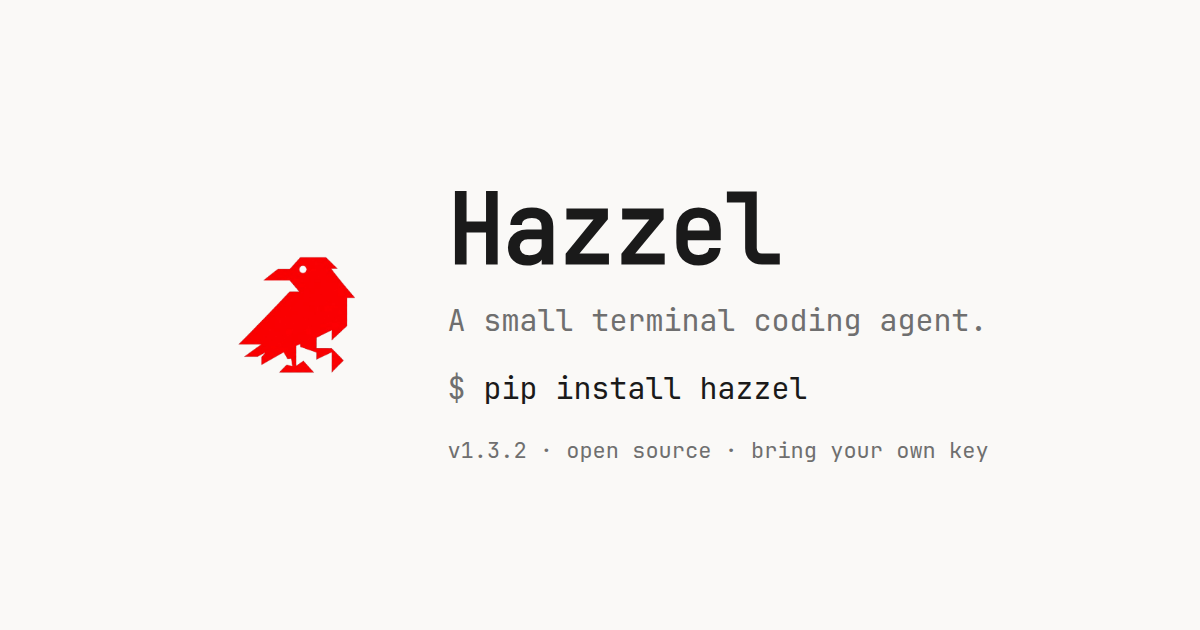
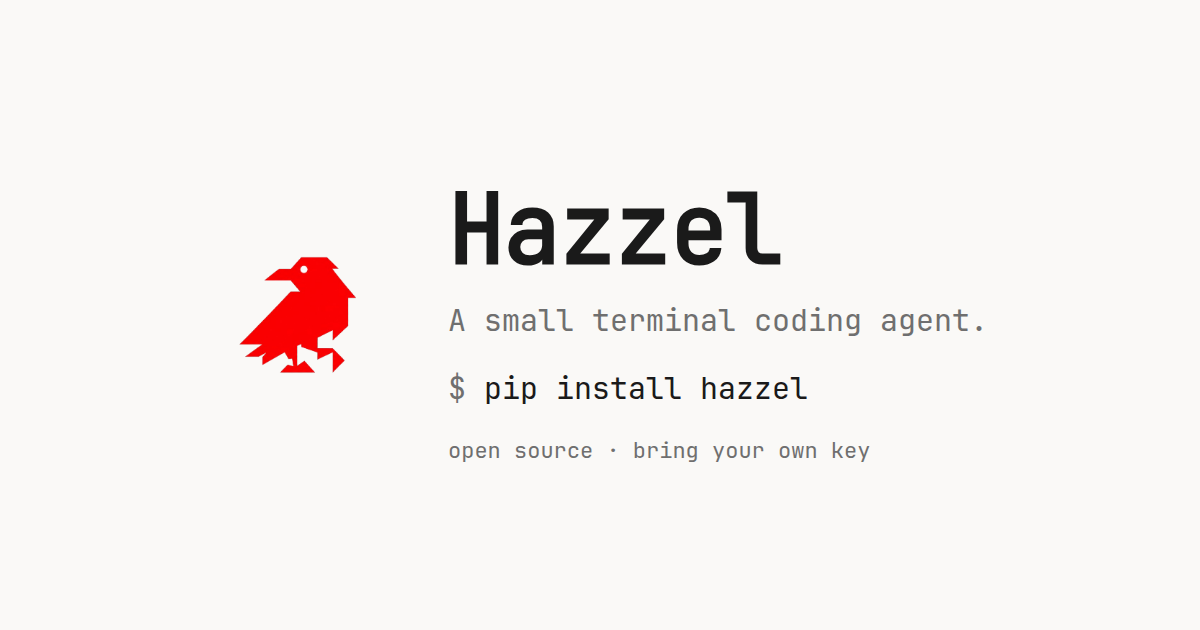
feat(site): versionless thumbnail

diff --git a/site/thumbnail.html b/site/thumbnail.html
@@ -23,5 +23,5 @@
 <h1>Hazzel</h1>
 <div class="tag">A small terminal coding agent.</div>
 <div class="cmd"><span class="p">$ </span>pip install hazzel</div>
-<div class="meta">v1.3.2 &middot; open source &middot; bring your own key</div>
+<div class="meta">open source &middot; bring your own key</div>
 </div></div></body></html>
